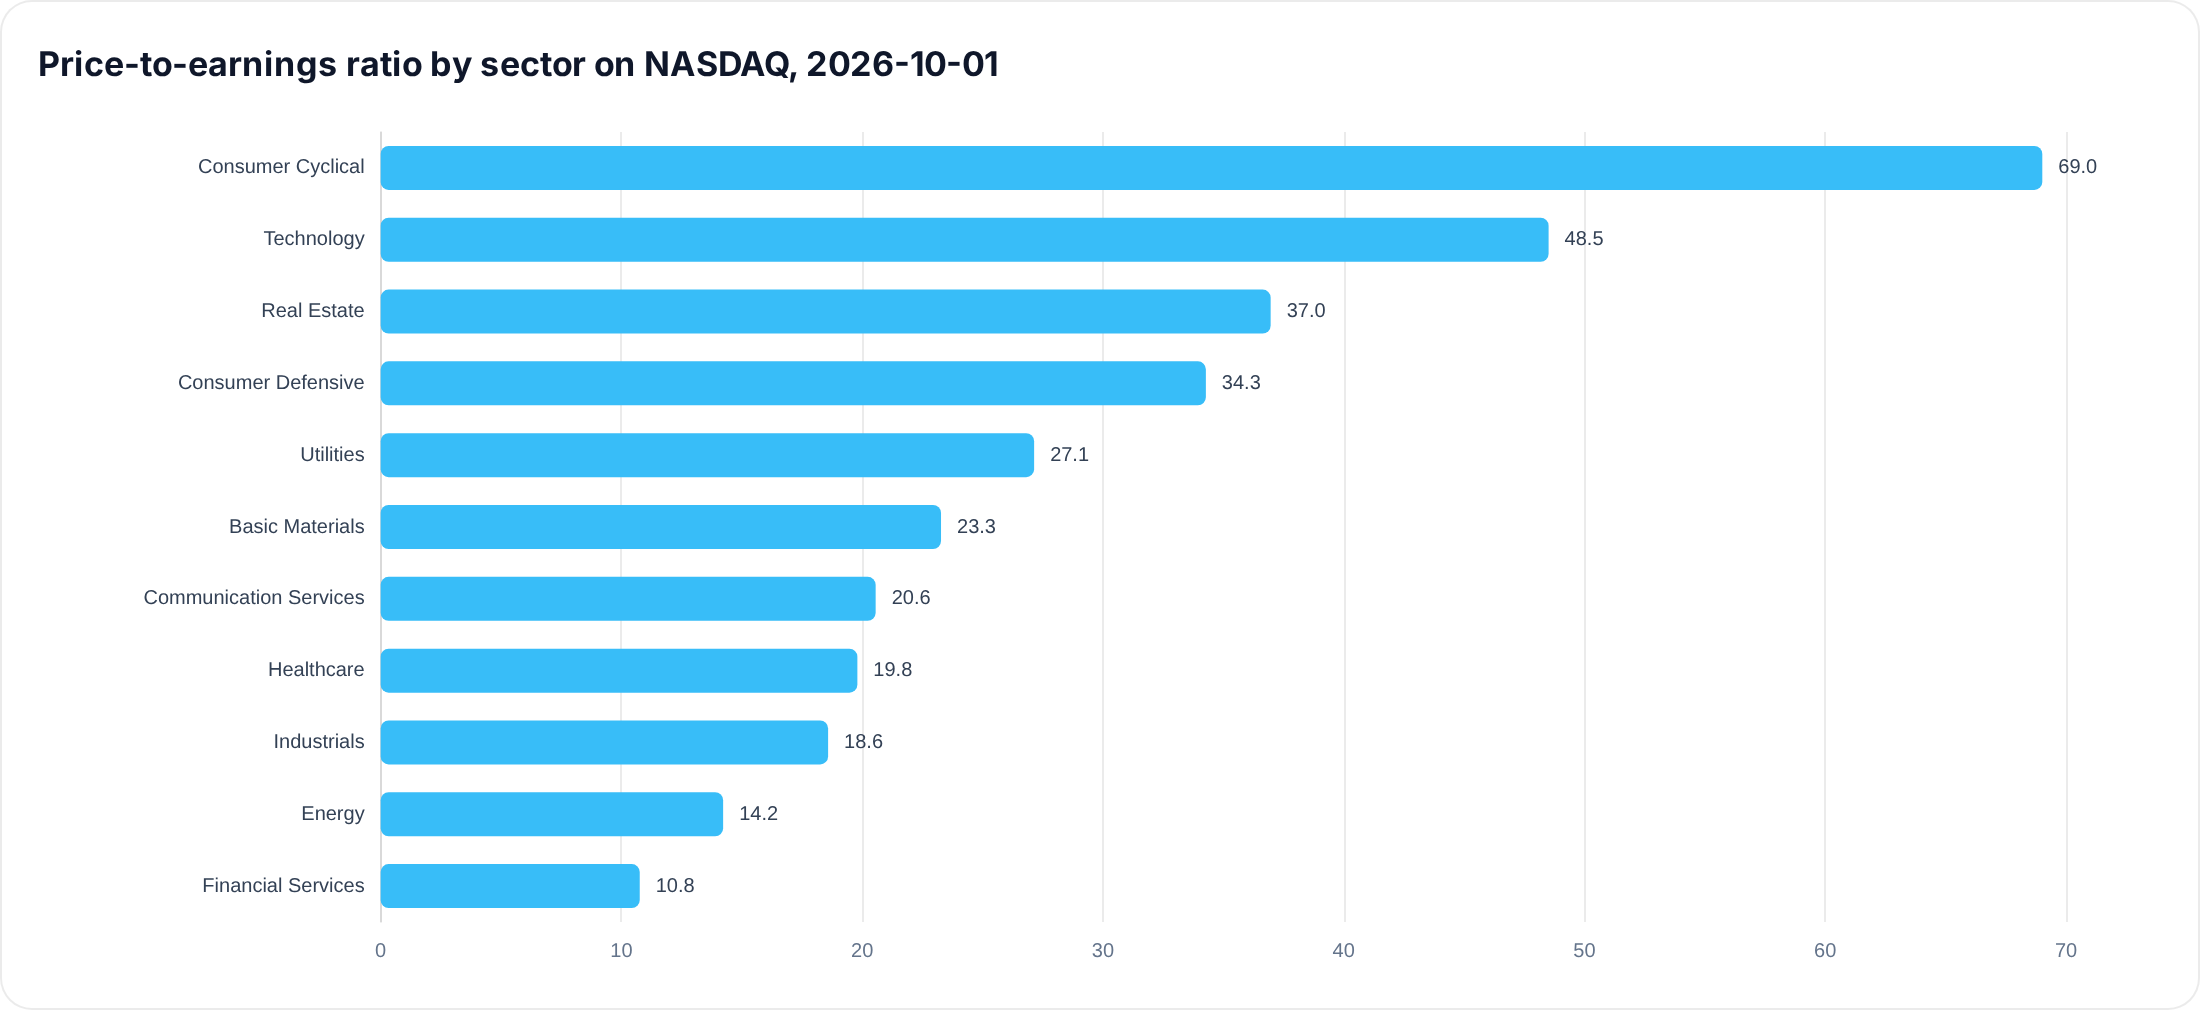
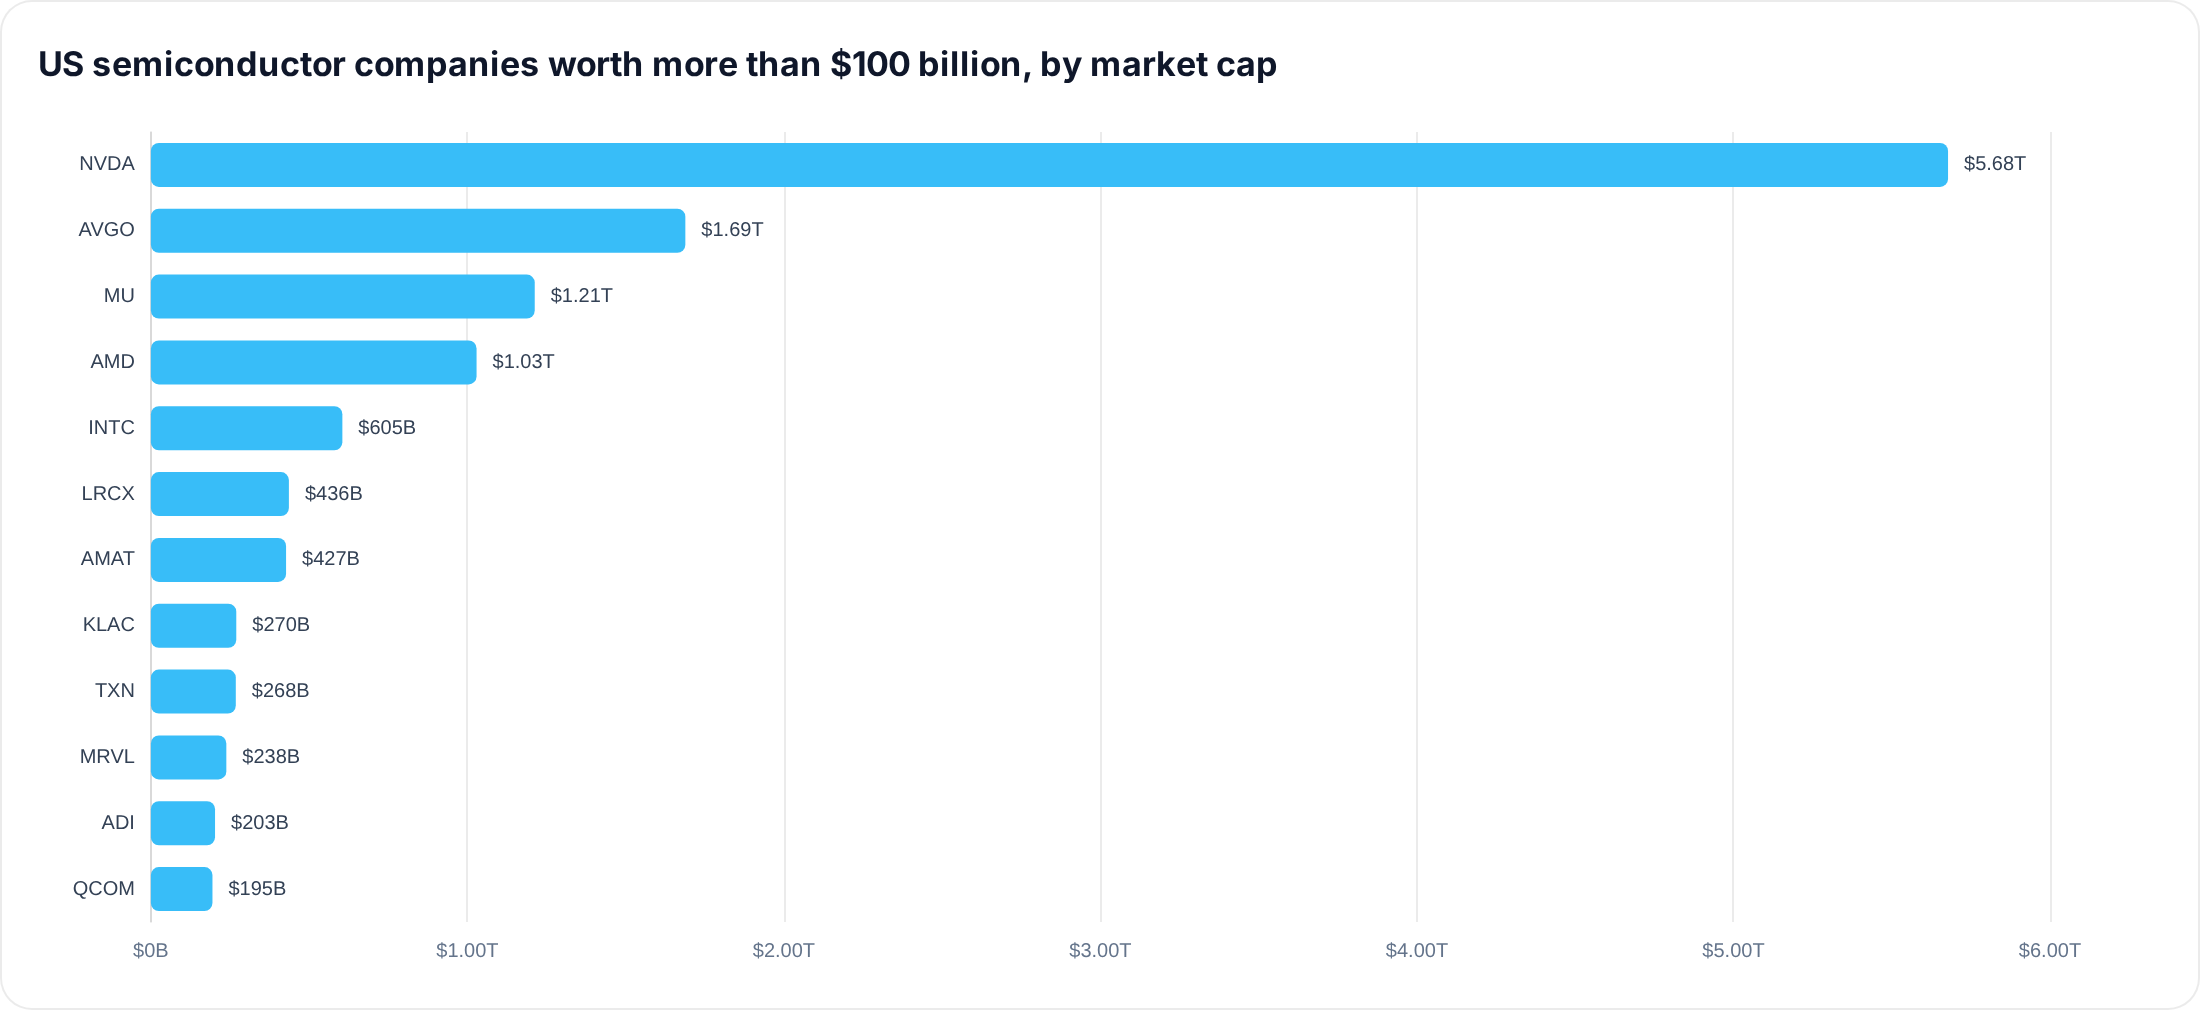
Make the README Discovery example find tickers for the Toolkit
The Discovery module is there to find tickers to analyze, which the
sector P/E overview did not do. The example now screens for US
semiconductor companies worth more than $100 billion, passes the twelve
it finds straight into a Toolkit, and charts them by market cap.

diff --git a/README.md b/README.md
@@ -112,32 +112,35 @@ Every module below also has a **How-To Guide notebook** and full **code document
 
 Before analyzing a ticker you often need to find it. The Discovery module is standalone and covers among other things lists of companies, cryptocurrencies, forex, commodities, ETFs and indices.
 ```python
-from financetoolkit import Discovery
+from financetoolkit import Discovery, Toolkit
 
 # Initialize the standalone Discovery module
 discovery = Discovery(api_key="FINANCIAL_MODELING_PREP_KEY")
 
-# Compare the Price-to-Earnings ratio of every sector on a given date
-discovery.get_sector_pe(date="2026-10-01")
+# Find US semiconductor companies worth more than $100 billion
+semiconductors = discovery.get_stock_screener(
+    industry="Semiconductors",
+    country="US",
+    exchange="NASDAQ",
+    market_cap_higher=100_000_000_000,
+    is_etf=False,
+)
+
+# Analyze every company that was found with the Finance Toolkit
+chip_makers = Toolkit(semiconductors.index.tolist(), api_key="FINANCIAL_MODELING_PREP_KEY")
 ```
 
-Which returns:
+The screener returns twelve companies, of which the five largest are shown below:
 
-| Sector                 | Date       | Exchange   |   PE Ratio |
-|:-----------------------|:-----------|:-----------|-----------:|
-| Basic Materials        | 2026-10-01 | NASDAQ     |    23.2745 |
-| Communication Services | 2026-10-01 | NASDAQ     |    20.5596 |
-| Consumer Cyclical      | 2026-10-01 | NASDAQ     |    69.0156 |
-| Consumer Defensive     | 2026-10-01 | NASDAQ     |    34.2750 |
-| Energy                 | 2026-10-01 | NASDAQ     |    14.2246 |
-| Financial Services     | 2026-10-01 | NASDAQ     |    10.7610 |
-| Healthcare             | 2026-10-01 | NASDAQ     |    19.8003 |
-| Industrials            | 2026-10-01 | NASDAQ     |    18.5849 |
-| Real Estate            | 2026-10-01 | NASDAQ     |    36.9656 |
-| Technology             | 2026-10-01 | NASDAQ     |    48.5102 |
-| Utilities              | 2026-10-01 | NASDAQ     |    27.1417 |
+| Symbol   | Name                         |    Market Cap |   Beta |    Price |   Dividend |
+|:---------|:-----------------------------|--------------:|-------:|---------:|-----------:|
+| NVDA     | NVIDIA Corporation           | 5677886820000 |  2.217 |   234.42 |       0.28 |
+| AVGO     | Broadcom Inc.                | 1688566002696 |  1.457 |   354.92 |       2.60 |
+| MU       | Micron Technology, Inc.      | 1212744628950 |  2.222 |  1073.81 |       0.53 |
+| AMD      | Advanced Micro Devices, Inc. | 1028957518000 |  2.476 |   631.03 |       0.00 |
+| INTC     | Intel Corp.                  |  604977329655 |  2.231 |   119.94 |       0.00 |
 
-And below the sectors are ranked from the most to the least expensive, a quick way to see where valuations are stretched or cheap before searching for individual stocks.
+And below all twelve are ranked by market cap. Each of them is now part of `chip_makers`, ready for any of the analyses that follow.
 
 <picture>
   <source media="(prefers-color-scheme: dark)" srcset="https://raw.githubusercontent.com/JerBouma/FinanceToolkit/main/assets/readme/discovery-dark.png">
